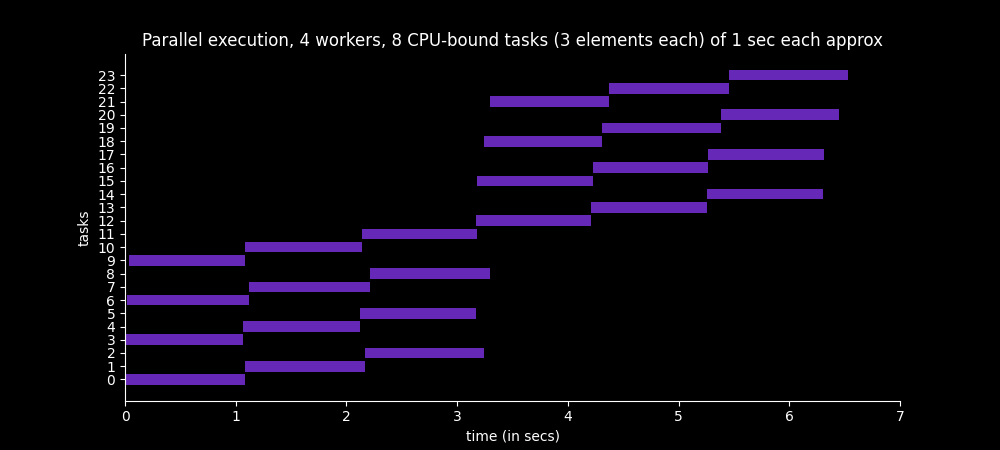
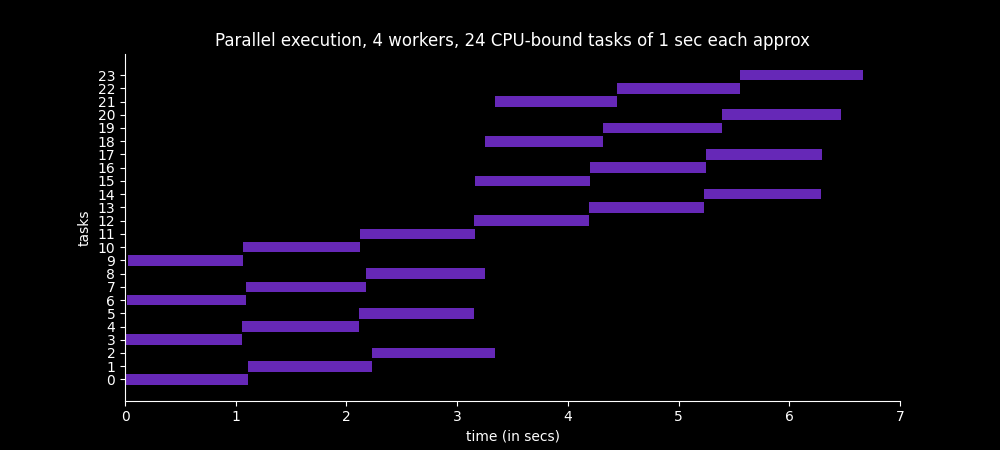
fix: 24 cpu tasks

diff --git a/concurrency/process-pool-executor/ProcessPoolExecutor_ex4.py b/concurrency/process-pool-executor/ProcessPoolExecutor_ex4.py
@@ -51,7 +51,7 @@ def main():
     start_points, end_points = postprocess_times(times)
 
     barh(
-        title="Parallel execution, 4 workers, 8 CPU-bound tasks (3 elements each) of 1 sec each approx",
+        title="Parallel execution, 4 workers, 24 CPU-bound tasks of 1 sec each approx",
         start_points=start_points,
         end_points=end_points,
         path=get_saving_path(
